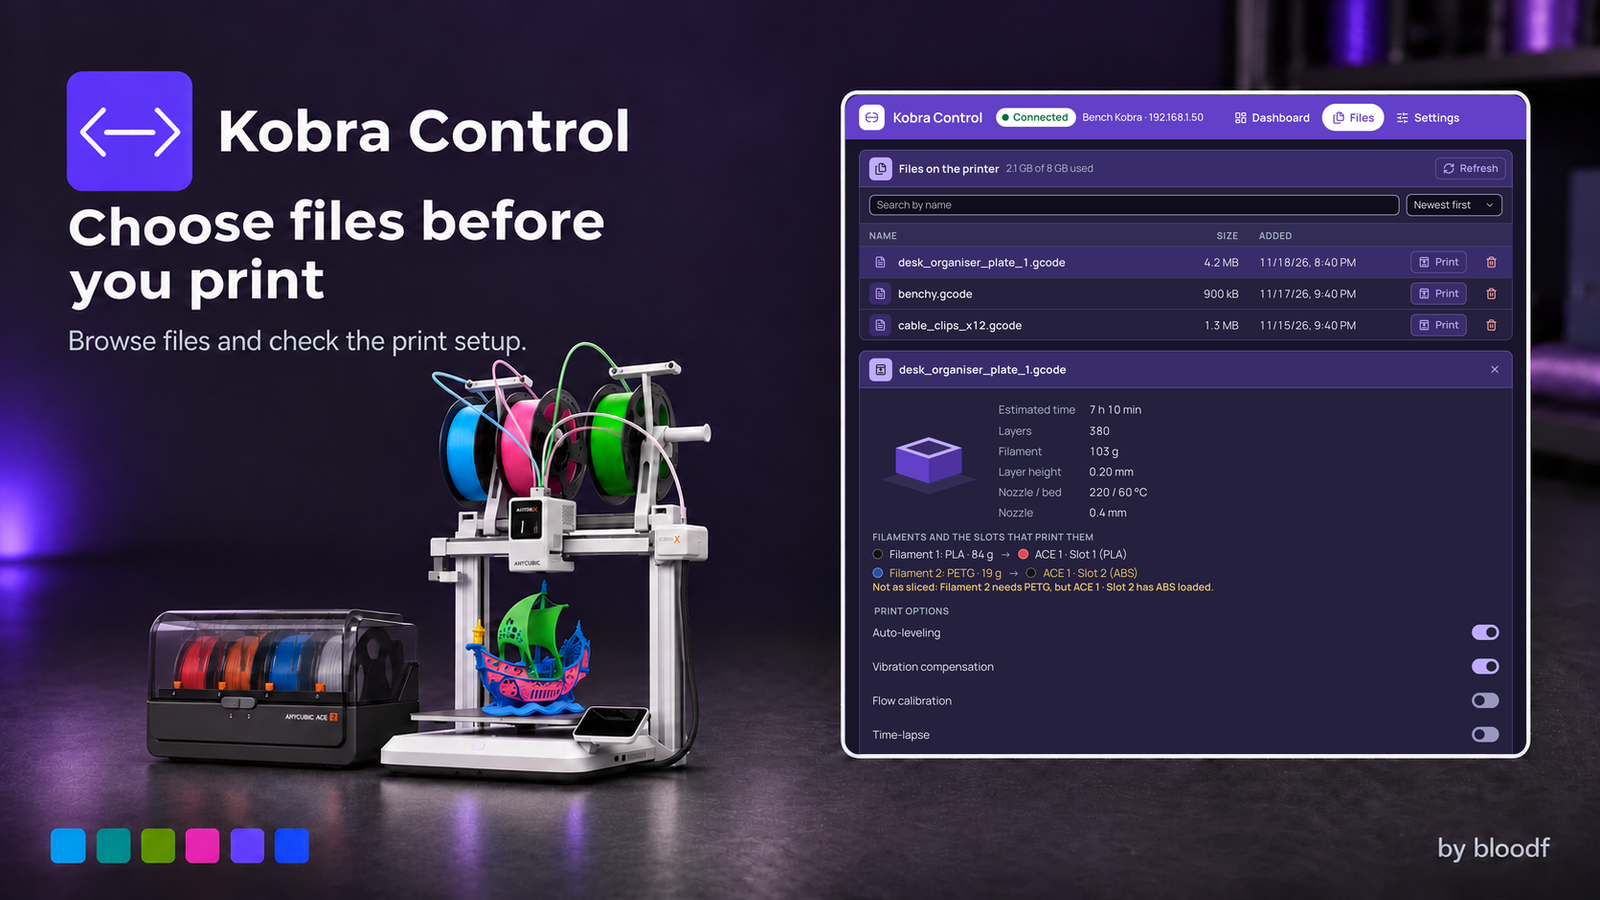
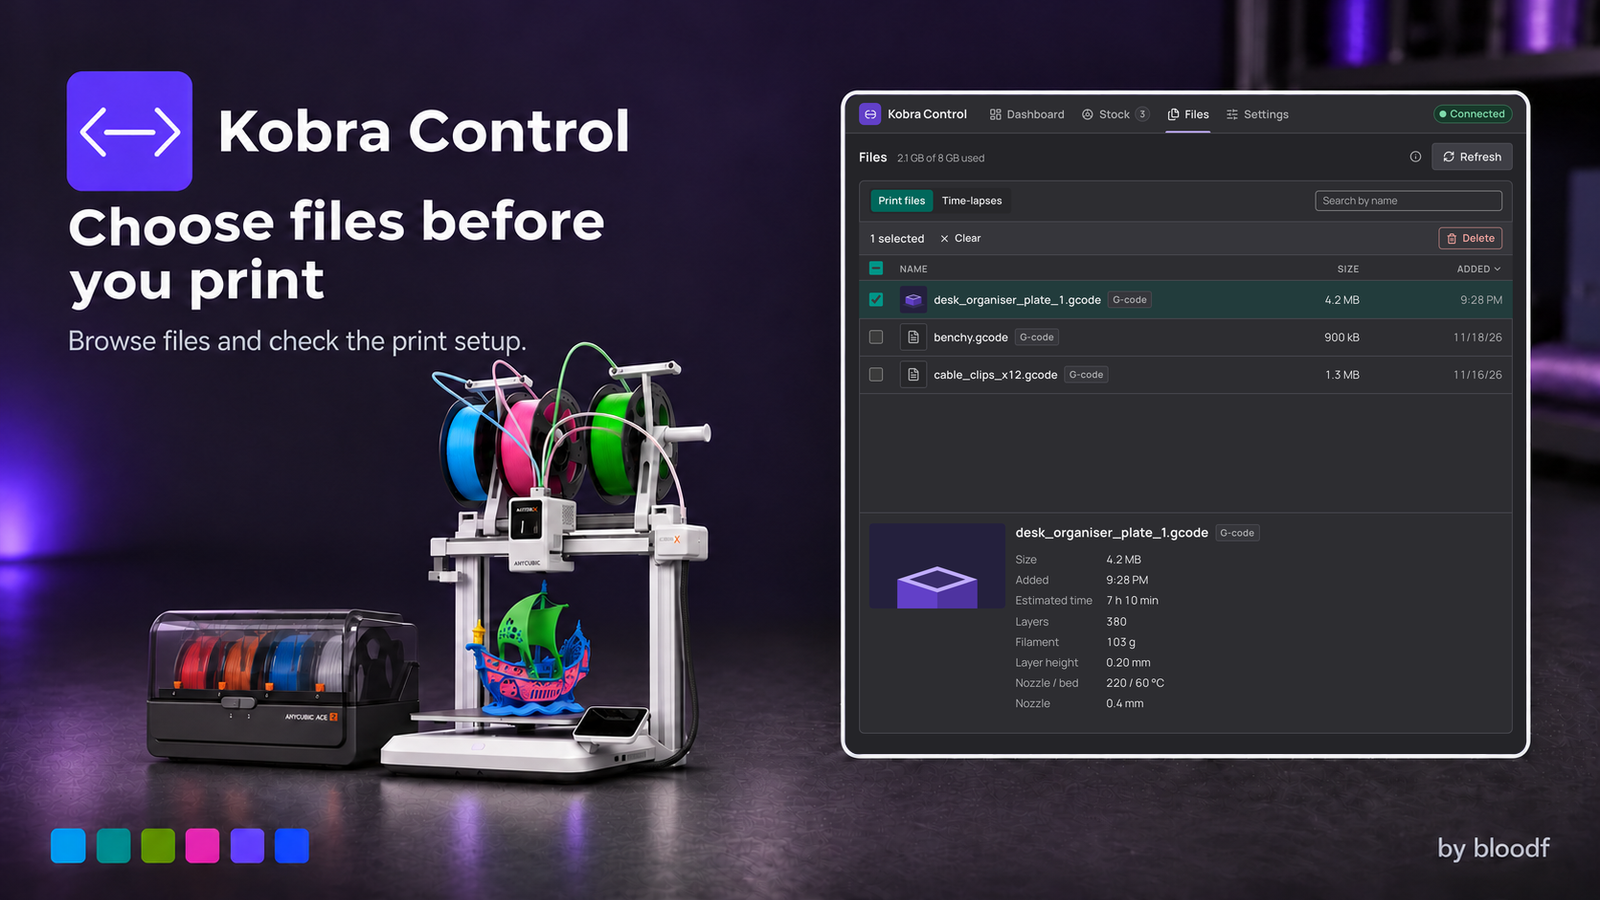
docs(images): re-render the README and listing pictures in the new look
Every export of scripts/marketing_images.py, from the page on the Orca UI
foundation 5.0.7, in English and Brazilian Portuguese.

The store scenes of shots.mjs are recomposed for the new page:
- store-status in a listing panel is one column now, so the camera moves up
  under the print and nothing follows it: the print and the whole camera
  picture fill the panel (860 px wide). The README screenshot keeps the
  page's two columns;
- store-ace starts at the Filament panel whatever follows it;
- every store picture ends cleanly: in one column a panel the bottom edge
  would cut is left out, and no row, line or button is cut in half;
- the README screenshots are tall enough for the whole page.

Changed region(s): [[0.5312, 0.0933, 0.9688, 0.8089], [0.9062, 0.6844, 0.9375, 0.84], [0.5312, 0.7778, 0.5938, 0.84]]

diff --git a/scripts/marketing_images.py b/scripts/marketing_images.py
@@ -30,7 +30,9 @@ LANDSCAPE, SQUARE, SOCIAL = (0.74, 0.47), (0.74, 0.56), (0.77, 0.47)   # a point
 
 # The picture inside each panel: (scene of shots.mjs, page width in CSS px). The page is rendered at the panel's own
 # aspect ratio, so nothing is cropped away.
-DASH, LAN, STATUS, ACE, FILES = ("store-dash", 845), ("store-lan", 800), ("store-status", 940), ("store-ace", 800), ("store-files", 800)
+# store-status is one column at this width, with the camera moved up under the print (shots.mjs): the print and the whole
+# camera picture fill the panel.
+DASH, LAN, STATUS, ACE, FILES = ("store-dash", 845), ("store-lan", 800), ("store-status", 860), ("store-ace", 800), ("store-files", 800)
 
 # (source in assets/marketing/source, point in panel, (scene, width), theme, language, export, size)
 JOBS = [
@@ -54,7 +56,8 @@ JOBS = [
     ("hero-light-pt-BR", LANDSCAPE, DASH, "light", "pt_BR", "readme/kobracontrol-hero-light-pt-BR.png", (1600, 900)),
 ]
 # Plain screenshots for the README body: (scene, export stem), each in light and dark, English and Portuguese.
-PLAIN = [("store-status", "readme/kobracontrol-dashboard", (1280, 800)), ("store-files", "readme/kobracontrol-files", (1280, 620))]
+# Tall enough for the whole page: every slot, the controls and the printer panel; the file's details down to its print options.
+PLAIN = [("store-status", "readme/kobracontrol-dashboard", (1280, 1600)), ("store-files", "readme/kobracontrol-files", (1280, 940))]
 TILE = ("tile", "orca-cloud/kobracontrol-tile.png", 512)
 CAMERA_CROP = (120, 378, 880, 805)   # the printer in cover-en, 16:9: the frame the mock camera shows in store-status
 

diff --git a/README.pt-BR.md b/README.pt-BR.md
@@ -74,7 +74,7 @@ O Kobra Control é um projeto independente. Não é feito nem mantido pela Anycu
       <p><b>Envie impressões pela rede local</b><br>Print e Send funcionam pelos diálogos do próprio OrcaSlicer. A aba encontra a impressora sozinha e o certificado de cliente já vem no plugin.</p>
     </td>
     <td width="50%" valign="top">
-      <img alt="O Painel com progresso, temperaturas e a imagem da câmera" src="assets/orca-cloud/kobracontrol-feature-02-status-pt-BR.png" width="100%">
+      <img alt="O Painel com o progresso e os tempos da impressão e a imagem da câmera" src="assets/orca-cloud/kobracontrol-feature-02-status-pt-BR.png" width="100%">
       <p><b>Acompanhe sua impressão</b><br>Progresso, camada, tempo restante e a hora em que a impressão deve terminar, ao lado de temperaturas, ventoinha, velocidade, luz e câmera.</p>
     </td>
   </tr>
@@ -84,7 +84,7 @@ O Kobra Control é um projeto independente. Não é feito nem mantido pela Anycu
       <p><b>Gerencie o filamento de cada slot</b><br>Cada slot da cabeça de impressão e do ACE mostra cor e material, com alimentar, recolher, alimentação automática, secagem e a bobina do Spoolman vinculada.</p>
     </td>
     <td width="50%" valign="top">
-      <img alt="A lista de arquivos da impressora e o painel com tempo, camadas, filamento e os slots de cada cor" src="assets/orca-cloud/kobracontrol-feature-04-files-pt-BR.png" width="100%">
+      <img alt="A lista de arquivos da impressora e os detalhes do arquivo selecionado: tamanho, tempo, camadas e filamento" src="assets/orca-cloud/kobracontrol-feature-04-files-pt-BR.png" width="100%">
       <p><b>Escolha os arquivos antes de imprimir</b><br>Veja os arquivos da impressora e confira tempo, camadas, filamento e qual slot do ACE imprime cada cor antes de pressionar <b>Iniciar impressão</b>.</p>
     </td>
   </tr>
@@ -119,7 +119,7 @@ Não há suporte para: Anycubic Cloud e acesso de fora da rede local, console de
 <p align="center">
   <picture>
     <source media="(prefers-color-scheme: dark)" srcset="assets/readme/kobracontrol-files-dark-pt-BR.png">
-    <img alt="A aba Arquivos: três arquivos na impressora, quatro vídeos de time-lapse e o painel de impressão de desk_organiser_plate_1.gcode, com o aviso de que o slot 2 está com ABS em vez de PETG" src="assets/readme/kobracontrol-files-light-pt-BR.png" width="100%">
+    <img alt="A aba Arquivos: três arquivos na impressora e o painel de impressão de desk_organiser_plate_1.gcode, com o aviso de que o slot 2 está com ABS em vez de PETG" src="assets/readme/kobracontrol-files-light-pt-BR.png" width="100%">
   </picture>
 </p>
 

diff --git a/README.md b/README.md
@@ -74,7 +74,7 @@ Kobra Control is an independent project. It is not made or supported by Anycubic
       <p><b>Send prints over your local network</b><br>Print and Send work from OrcaSlicer's own dialogs. The tab finds the printer by itself and the client certificate is built in.</p>
     </td>
     <td width="50%" valign="top">
-      <img alt="The Dashboard with progress, temperatures and the camera picture" src="assets/orca-cloud/kobracontrol-feature-02-status-en.png" width="100%">
+      <img alt="The Dashboard with the print's progress and times and the camera picture" src="assets/orca-cloud/kobracontrol-feature-02-status-en.png" width="100%">
       <p><b>Keep an eye on your print</b><br>Progress, layer, time left and the clock time the print should finish, next to temperatures, fan, speed, light and the camera.</p>
     </td>
   </tr>
@@ -84,7 +84,7 @@ Kobra Control is an independent project. It is not made or supported by Anycubic
       <p><b>Manage the filament in each slot</b><br>Every print head and ACE slot shows its colour and material, with feed, retract, auto-feed, drying and the Spoolman spool linked to it.</p>
     </td>
     <td width="50%" valign="top">
-      <img alt="The printer's file list and the print panel with time, layers, filament and slot mapping" src="assets/orca-cloud/kobracontrol-feature-04-files-en.png" width="100%">
+      <img alt="The printer's file list and the selected file's details: size, time, layers and filament" src="assets/orca-cloud/kobracontrol-feature-04-files-en.png" width="100%">
       <p><b>Choose files before you print</b><br>Browse the printer's files and see time, layers, filament and which ACE slot prints each colour before you press <b>Start printing</b>.</p>
     </td>
   </tr>
@@ -119,7 +119,7 @@ Not supported: Anycubic Cloud and access from outside your local network, a G-co
 <p align="center">
   <picture>
     <source media="(prefers-color-scheme: dark)" srcset="assets/readme/kobracontrol-files-dark-en.png">
-    <img alt="The Files tab: three files on the printer, four time-lapse videos, and the print panel for desk_organiser_plate_1.gcode with a warning that slot 2 holds ABS instead of PETG" src="assets/readme/kobracontrol-files-light-en.png" width="100%">
+    <img alt="The Files tab: three files on the printer and the print panel for desk_organiser_plate_1.gcode with a warning that slot 2 holds ABS instead of PETG" src="assets/readme/kobracontrol-files-light-en.png" width="100%">
   </picture>
 </p>
 
